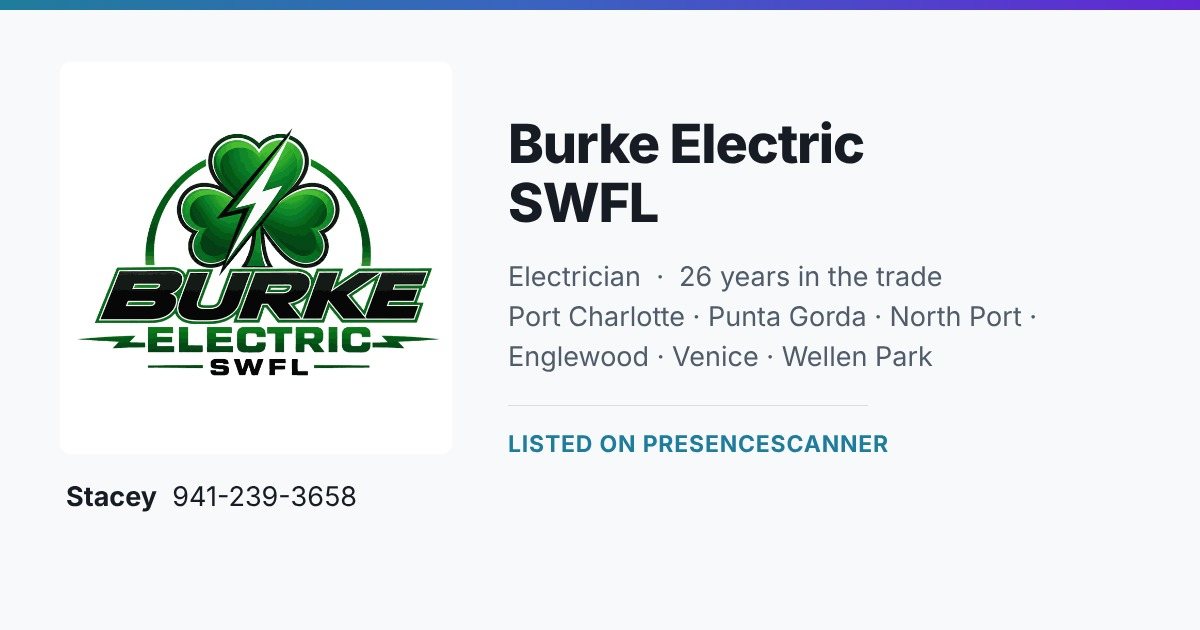
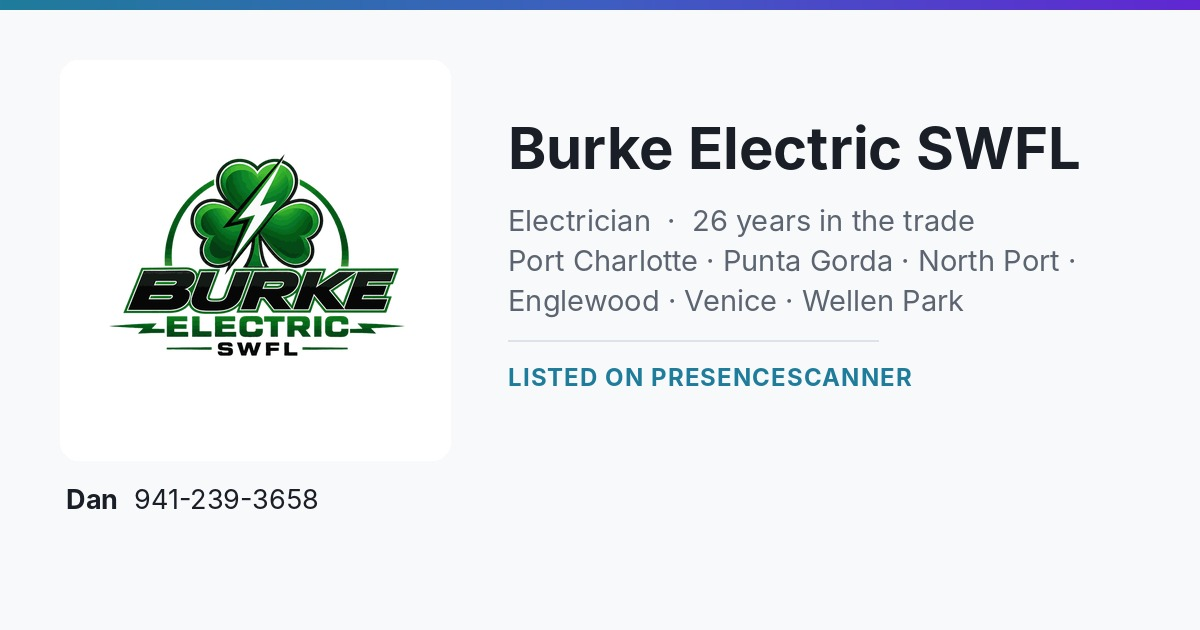
Burke Electric: name Dan Burke as the electrician at the owner's request
Stacey Burke wrote in on 23 November asking that Dan Burke be named
since he is the electrician and she is the office manager. This also
answers the question that has been open since her page was built.

- venice/burke-electric.html: Contact now reads Stacey Burke, office
  manager, with a new Electrician row for Dan Burke
- recommend.html and wtr-mp.html: owner field now Dan and Stacey Burke,
  and Michael's own copy names Dan when recommending an electrician
- og-burke-electric.jpg rebuilt, because the share card paired the word
  Electrician with Stacey's name

Claude-Session: https://claude.ai/code/session_01FuWaCiRns4ms2dHpSJ1A6n

diff --git a/public/recommend.html b/public/recommend.html
@@ -163,7 +163,7 @@ var MEMBERS = [
 {"t": "Handyman", "n": "Venice FL Handyman", "a": "Venice, Nokomis, Sarasota, North Port", "u": "https://www.presencescanner.ai/venice/venice-fl-handyman", "p": "941-662-9941", "k": "handyman repairs drywall flooring tile ceiling fan tv mount punch list", "c": "Venice FL Handyman. Home repairs, painting, drywall, flooring, tiling, ceiling fans, TV mounts and punch-list work. 45 years in the trades, 18 of them in Florida. Venice, Nokomis, Sarasota and North Port.", "o": "Michael Putnam"},
 {"t": "Windows & doors", "n": "Window Team USA", "a": "Punta Gorda, Port Charlotte, North Port, Cape Coral", "u": "https://www.presencescanner.ai/venice/window-team-usa", "p": "941-339-9554", "k": "window windows door doors impact hurricane shutters storm panel lanai carport", "c": "Window Team USA. Family owned impact and non-impact windows and doors, plus Bahama, accordion and roll down shutters, storm panels, lanai enclosures and carports. Punta Gorda, Port Charlotte, North Port and Cape Coral.", "o": "Julie Downs"},
 {"t": "HVAC", "n": "Zephyr Air", "a": "Venice, North Port, Nokomis, Sarasota", "u": "https://www.presencescanner.ai/venice/zephyr-air", "p": "941-202-8550", "k": "ac a/c air conditioning conditioner heat hvac cooling duct thermostat", "c": "Zephyr Air. Owner-operated residential and commercial HVAC, repair, installation, maintenance agreements, duct and vent work, thermostats. Venice, North Port, Nokomis and Sarasota.", "o": "Martin Charles", "f": "https://facebook.com/share/1DdGNet1uz", "fl": "Facebook"},
-{"t": "Electrician", "n": "Burke Electric SWFL", "a": "Port Charlotte, Punta Gorda, North Port, Englewood, Venice, Wellen Park", "u": "https://www.presencescanner.ai/venice/burke-electric", "p": "941-239-3658", "k": "electric electrical electrician wiring rewire breaker panel outlet socket generator inlet ev charger surge protection lighting hot tub pool pump", "c": "Burke Electric SWFL. Troubleshooting, generator inlets, EV chargers, panel and service changes, surge protection, pool equipment and hot tub wiring. Newly opened, with 26 years in the trade behind it. Port Charlotte, Punta Gorda, North Port, Englewood, Venice and Wellen Park.", "o": "Stacey Burke"},
+{"t": "Electrician", "n": "Burke Electric SWFL", "a": "Port Charlotte, Punta Gorda, North Port, Englewood, Venice, Wellen Park", "u": "https://www.presencescanner.ai/venice/burke-electric", "p": "941-239-3658", "k": "electric electrical electrician wiring rewire breaker panel outlet socket generator inlet ev charger surge protection lighting hot tub pool pump", "c": "Burke Electric SWFL. Troubleshooting, generator inlets, EV chargers, panel and service changes, surge protection, pool equipment and hot tub wiring. Newly opened, with 26 years in the trade behind it. Port Charlotte, Punta Gorda, North Port, Englewood, Venice and Wellen Park.", "o": "Dan and Stacey Burke"},
  {"t": "Electrician", "n": "VoltWave Electric", "a": "Venice, Sarasota, North Port, Port Charlotte, Cape Coral, Fort Myers, Naples", "u": "https://www.presencescanner.ai/venice/voltwave-electric", "p": "239-467-1622", "k": "electric electrician electrical wiring rewire panel upgrade breaker breakers outlet outlets socket generator generators transfer switch surge protection smart home automation camera cameras security wifi wi-fi network networking low voltage audio speakers lighting ev charger", "c": "VoltWave Electric. Licensed Florida electrical contractor, EC13015428. Panel upgrades, whole-house generators and transfer switches, surge protection, smart home automation, security cameras, networking and audio, all from one company instead of three. 12 years in the trade. Venice through to Naples.", "o": "Evelio"},
 {"t": "Custom gifts", "n": "PB&J Kustom Kreationz", "a": "North Port, ships nationwide", "u": "https://www.presencescanner.ai/venice/pbj-kustom-kreationz", "p": "757-304-2760", "k": "gift gifts custom customized personalized engraved engraving laser tumbler tumblers shirt shirts tshirt t-shirt hoodie hoodies sweatshirt embroidery embroidered polo polos logo decal decals sticker candle candles wax melt melts soap soaps lotion lip balm ornament ornaments cutting board bookmark monogram staff shirts team shirts uniform memorial birthday wedding christmas gift basket", "c": "PB&J Kustom Kreationz. Handmade gifts made to order in North Port. Laser engraved cutting boards, tumblers and ornaments, custom shirts and hoodies, embroidered polos for businesses with no contract and no minimum, wax melts, candles and coconut-free cold process soaps. Ships nationwide.", "o": "Jennifer Payeur"},
 {"t": "Plumbing", "n": "Osorio Plumbing LLC", "a": "Sarasota, Charlotte, Manatee, Lee Counties", "u": "https://www.presencescanner.ai/venice/osorio-plumbing", "p": "941-367-9012", "k": "plumber plumbing plumbers drain clog clogged blocked toilet leak leaking pipe pipes repipe re-pipe water heater septic hydro jet jetting sewer faucet", "c": "Osorio Plumbing. Residential and commercial plumbing, new construction, repairs, re-piping, drain cleaning, hydro-jetting, water heaters and septic. Sarasota, Charlotte, Manatee and Lee Counties.", "o": "Radames Osorio", "f": "https://www.facebook.com/osoriotheplumber", "fl": "Facebook"},

diff --git a/public/wtr-mp.html b/public/wtr-mp.html
@@ -128,7 +128,7 @@ const MEMBERS = [
  {t:"Painting",n:"Pristine Painting Company",a:"North Port, Port Charlotte, Venice, Englewood",u:"https://www.presencescanner.ai/venice/pristine-painting",p:"941-426-8890",o:"Michael Bonatz",k:"paint painter painters painting repaint repainting interior exterior walls ceiling ceilings tray ceiling doors trim baseboard casing power wash pressure wash washing stucco",c:"Pristine Painting Company, Michael Bonatz. 25 years painting and 15 running his own business. Interior and exterior repaints, power washing, doors, trim and tray ceilings. North Port, Port Charlotte, Venice and Englewood."},
  {t:"Roofing",n:"A's Star Roofing",a:"Venice, Sarasota, Southwest Florida",u:"https://www.presencescanner.ai/venice/as-star-roofing",p:"941-234-8398",o:"Ken Siharath",k:"roof roofer roofing leak shingle tile metal flat emergency",c:"A's Star Roofing. Family contractor, shingle, tile, metal and flat. Repairs right through to full replacement, and they take emergency leaks. Venice and Sarasota."},
  {t:"HVAC",n:"Zephyr Air",a:"Venice, North Port, Nokomis, Sarasota",u:"https://www.presencescanner.ai/venice/zephyr-air",p:"941-202-8550",o:"Martin Charles",f:"https://facebook.com/share/1DdGNet1uz",fl:"Facebook",k:"ac a/c air conditioning conditioner heat hvac cooling duct thermostat",c:"Zephyr Air. Owner operated, residential and commercial. Repair, installation, maintenance plans, duct and vent work. Venice, North Port, Nokomis and Sarasota."},
- {t:"Electrician",n:"Burke Electric SWFL",a:"Port Charlotte, Punta Gorda, North Port, Englewood, Venice, Wellen Park",u:"https://www.presencescanner.ai/venice/burke-electric",p:"941-239-3658",o:"Stacey Burke",k:"electric electrical electrician wiring rewire breaker panel outlet socket generator inlet ev charger surge protection lighting hot tub pool pump",c:"Burke Electric SWFL, Stacey Burke. Newly opened with 26 years in the trade behind it. Troubleshooting, generator inlets, EV chargers, panel and service changes, surge protection, pool equipment and hot tub wiring. Port Charlotte, Punta Gorda, North Port, Englewood, Venice and Wellen Park."},
+ {t:"Electrician",n:"Burke Electric SWFL",a:"Port Charlotte, Punta Gorda, North Port, Englewood, Venice, Wellen Park",u:"https://www.presencescanner.ai/venice/burke-electric",p:"941-239-3658",o:"Dan and Stacey Burke",k:"electric electrical electrician wiring rewire breaker panel outlet socket generator inlet ev charger surge protection lighting hot tub pool pump dan burke stacey burke",c:"Burke Electric SWFL, Dan Burke. Newly opened with 26 years in the trade behind it. Troubleshooting, generator inlets, EV chargers, panel and service changes, surge protection, pool equipment and hot tub wiring. Port Charlotte, Punta Gorda, North Port, Englewood, Venice and Wellen Park."},
  {t:"Electrician",n:"VoltWave Electric",a:"Venice, Sarasota, North Port, Port Charlotte, Cape Coral, Fort Myers, Naples",u:"https://www.presencescanner.ai/venice/voltwave-electric",p:"239-467-1622",o:"Evelio",k:"electric electrician electrical wiring rewire panel upgrade breaker breakers outlet outlets socket generator generators transfer switch surge protection smart home automation camera cameras security wifi wi-fi network networking low voltage audio speakers lighting ev charger",c:"VoltWave Electric, Evelio. Licensed electrical contractor, EC13015428, 12 years in the trade. Panel upgrades, whole-house generators, surge protection, plus the cameras, Wi-Fi, automation and audio from the same company. Venice all the way down to Naples."},
  {t:"Custom gifts",n:"PB&J Kustom Kreationz",a:"North Port, ships nationwide",u:"https://www.presencescanner.ai/venice/pbj-kustom-kreationz",p:"757-304-2760",o:"Jennifer Payeur",k:"gift gifts custom customized personalized engraved engraving laser tumbler tumblers shirt shirts tshirt t-shirt hoodie hoodies sweatshirt embroidery embroidered polo polos logo decal decals sticker candle candles wax melt melts soap soaps lotion lip balm ornament ornaments cutting board bookmark monogram staff shirts team shirts uniform memorial birthday wedding christmas gift basket",c:"PB&J Kustom Kreationz, Jennifer Payeur. Handmade gifts made to order in North Port. Laser engraved cutting boards, tumblers and ornaments, custom shirts and hoodies, embroidered polos for businesses with no contract and no minimum, plus wax melts, candles and coconut-free cold process soaps. Ships nationwide."}, {t:"Plumbing",n:"Osorio Plumbing LLC",a:"Sarasota, Charlotte, Manatee, Lee Counties",u:"https://www.presencescanner.ai/venice/osorio-plumbing",p:"941-367-9012",o:"Radames Osorio",f:"https://www.facebook.com/osoriotheplumber",fl:"Facebook",k:"plumber plumbing plumbers drain drains clog clogged blocked block toilet leak leaking leaks pipe pipes repipe water heater heaters septic hydro jet jetting sewer faucet backed up burst",c:"Osorio Plumbing LLC. Residential and commercial. New construction, repairs, re-piping, drain cleaning, hydro-jetting, water heaters, septic. Sarasota, Charlotte, Manatee and Lee Counties. 20 years in the trade."},
 

diff --git a/public/venice/burke-electric.html b/public/venice/burke-electric.html
@@ -371,7 +371,8 @@
     <div class="info-row"><span class="k">Serves</span><span class="v">Port Charlotte, Punta Gorda, North Port, Englewood, Venice, Wellen Park and surrounding areas</span></div>
     <div class="info-row"><span class="k">Phone</span><span class="v"><a href="tel:9412393658">941-239-3658</a></span></div>
     <div class="info-row"><span class="k">Email</span><span class="v"><a href="mailto:Burke.electric.swfl@gmail.com">Burke.electric.swfl@gmail.com</a></span></div>
-    <div class="info-row"><span class="k">Contact</span><span class="v">Stacey Burke</span></div>
+    <div class="info-row"><span class="k">Contact</span><span class="v">Stacey Burke, office manager</span></div>
+    <div class="info-row"><span class="k">Electrician</span><span class="v">Dan Burke</span></div>
     <div class="info-row"><span class="k">Experience</span><span class="v">26 years in the electrical field</span></div>
 
     <div style="margin-top:18px"><a class="contact-cta" href="tel:9412393658">Call Burke Electric SWFL &rarr;</a></div>
